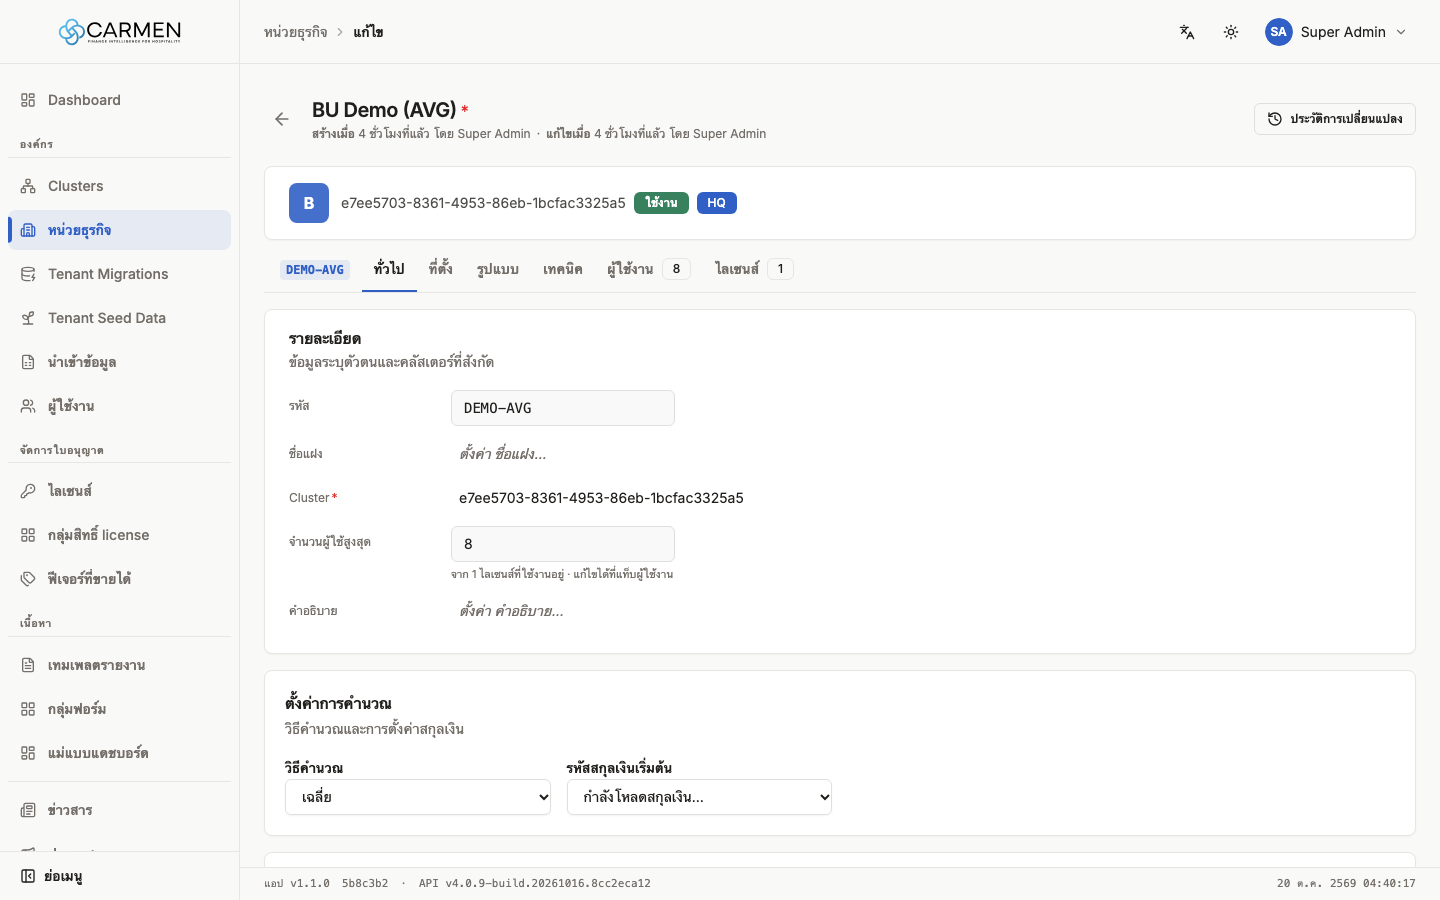
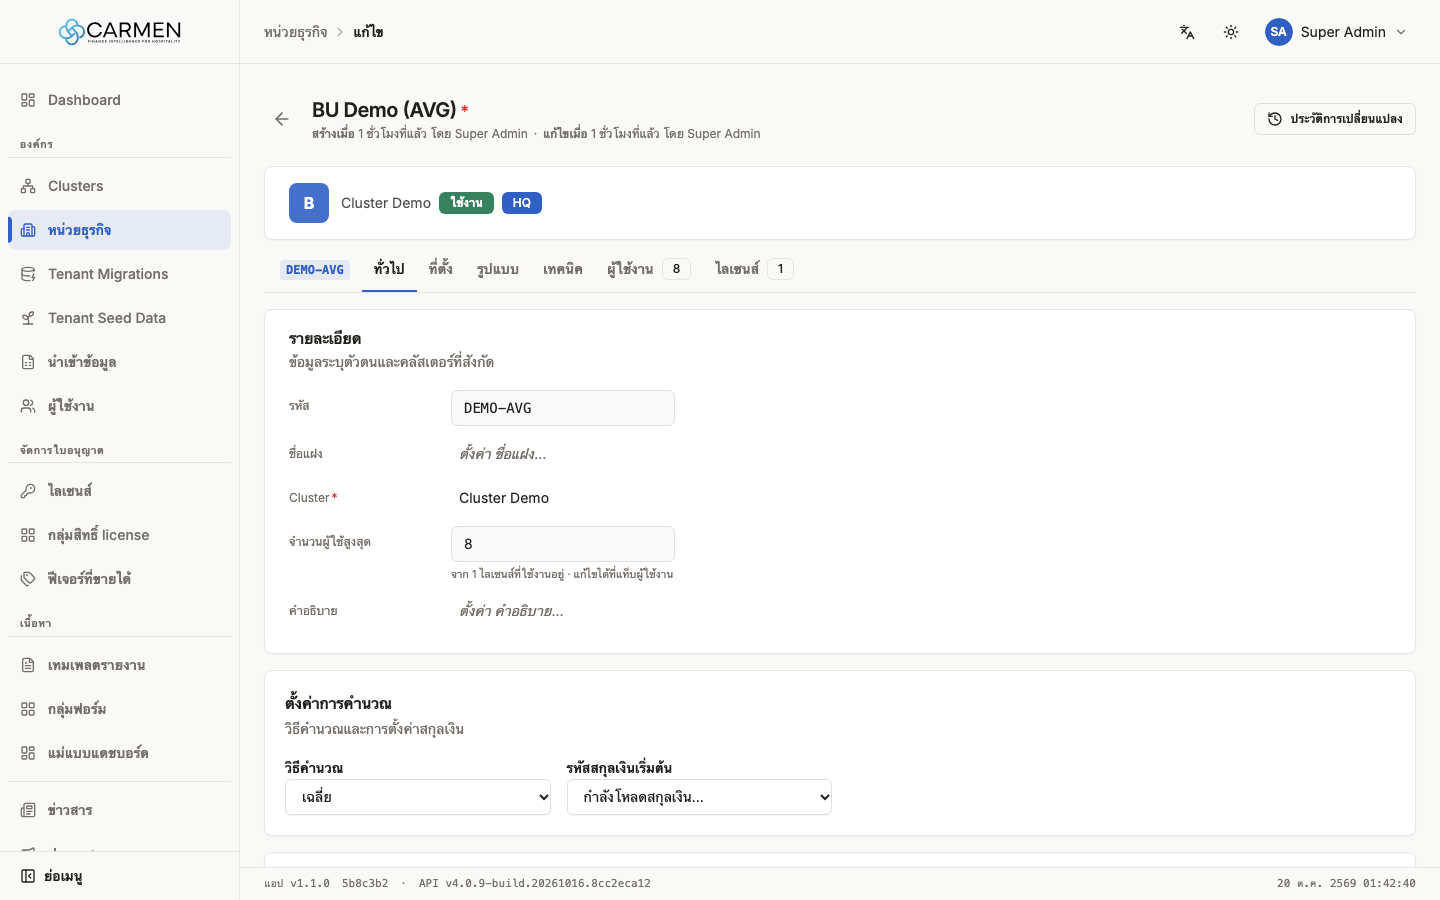
docs: restore regressed screenshots, tidy README

Changed region(s): [[0.2188, 0.1867, 0.5312, 0.2489], [0.25, 0.1244, 0.5312, 0.1556], [0.3125, 0.5289, 0.5312, 0.56]]

diff --git a/README.md b/README.md
@@ -86,8 +86,6 @@ still there. Then run `bun run capture:restore-flags` again.
 `MANUAL-DEMO-<kind>-<th|en>-<yyyyMMddHHmm>` (users: the same in lower case, `@example.com`),
 so runs never collide. Shot names are `guide-<guide>-<NN>-<step>.png`.
 
-Every capture run — `capture:screens` too — sweeps leftover `MANUAL-DEMO-` records at its start and end.
-
 At the end of every run (and at the start, for leftovers of a killed run) all users,
 business units, clusters and licence feature groups whose name starts with `MANUAL-DEMO`
 are deleted — from any run, never anything without the prefix (names must start with
